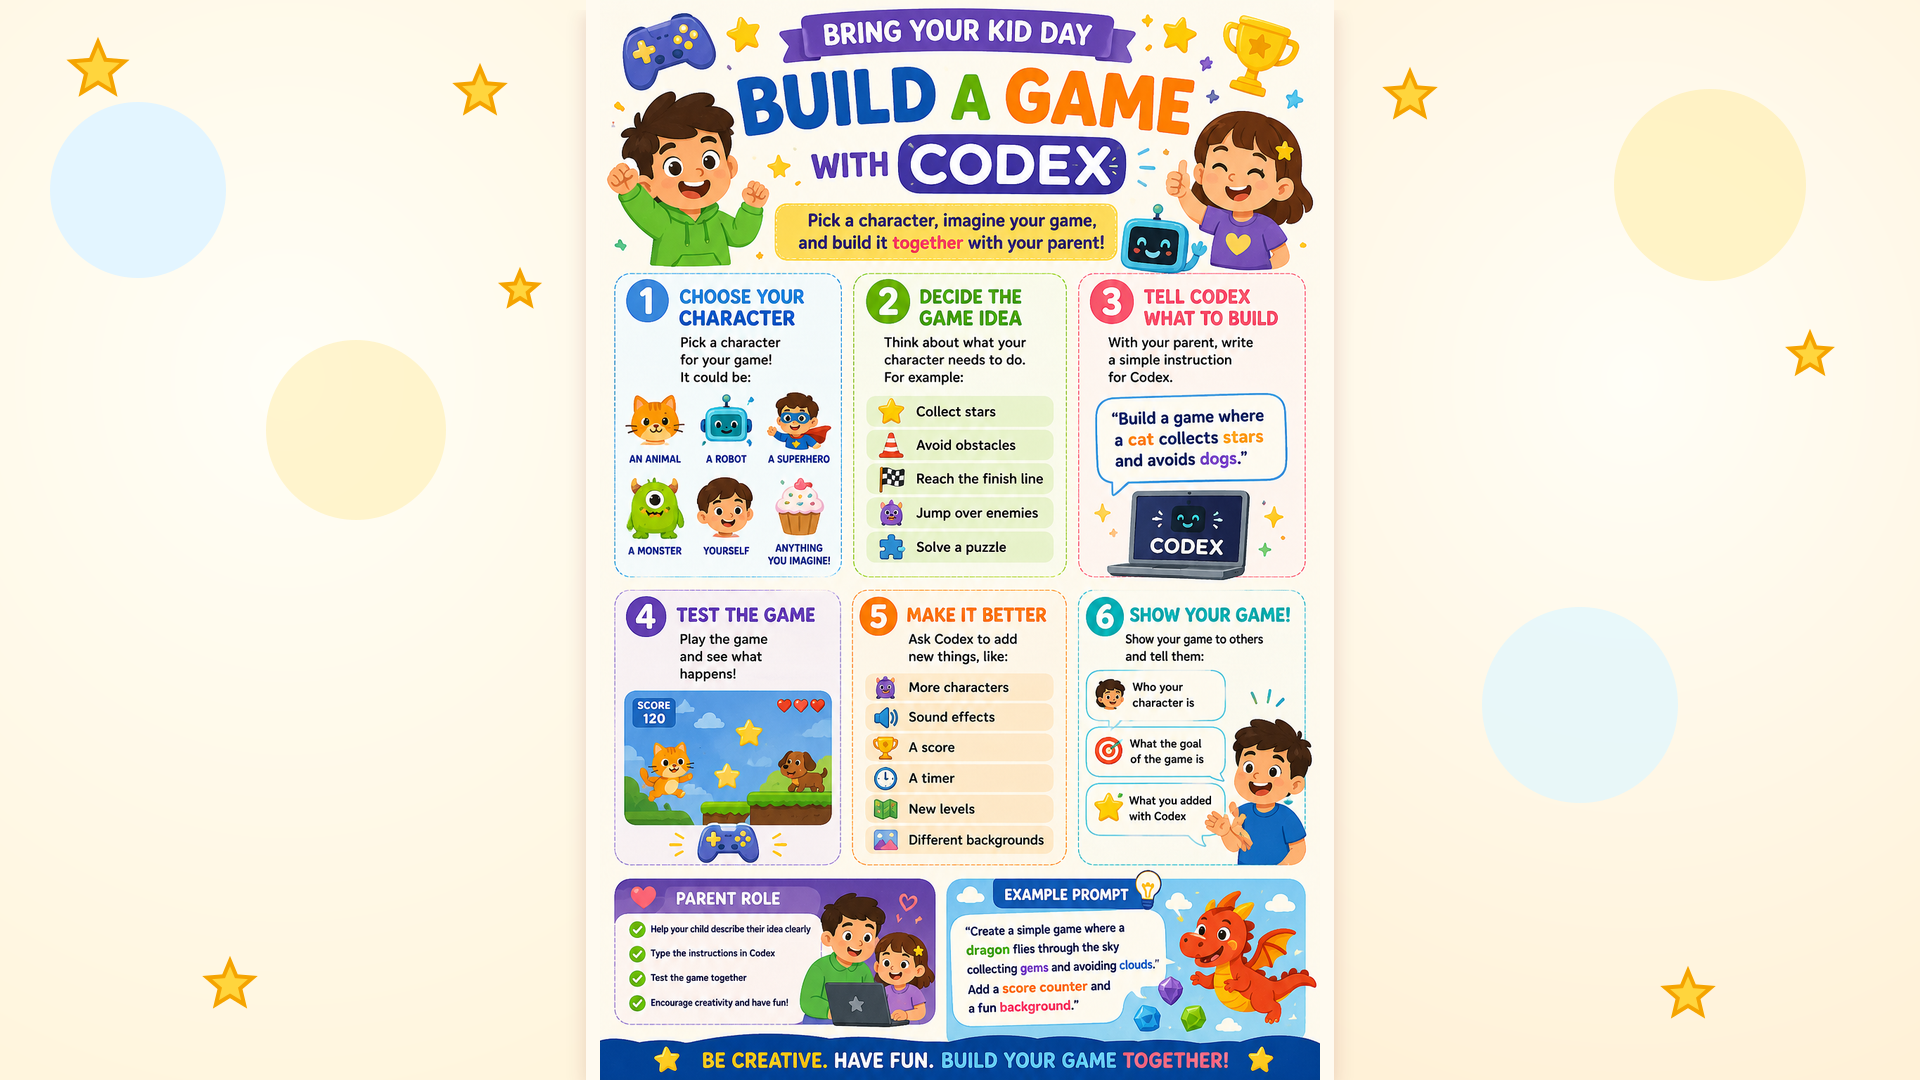
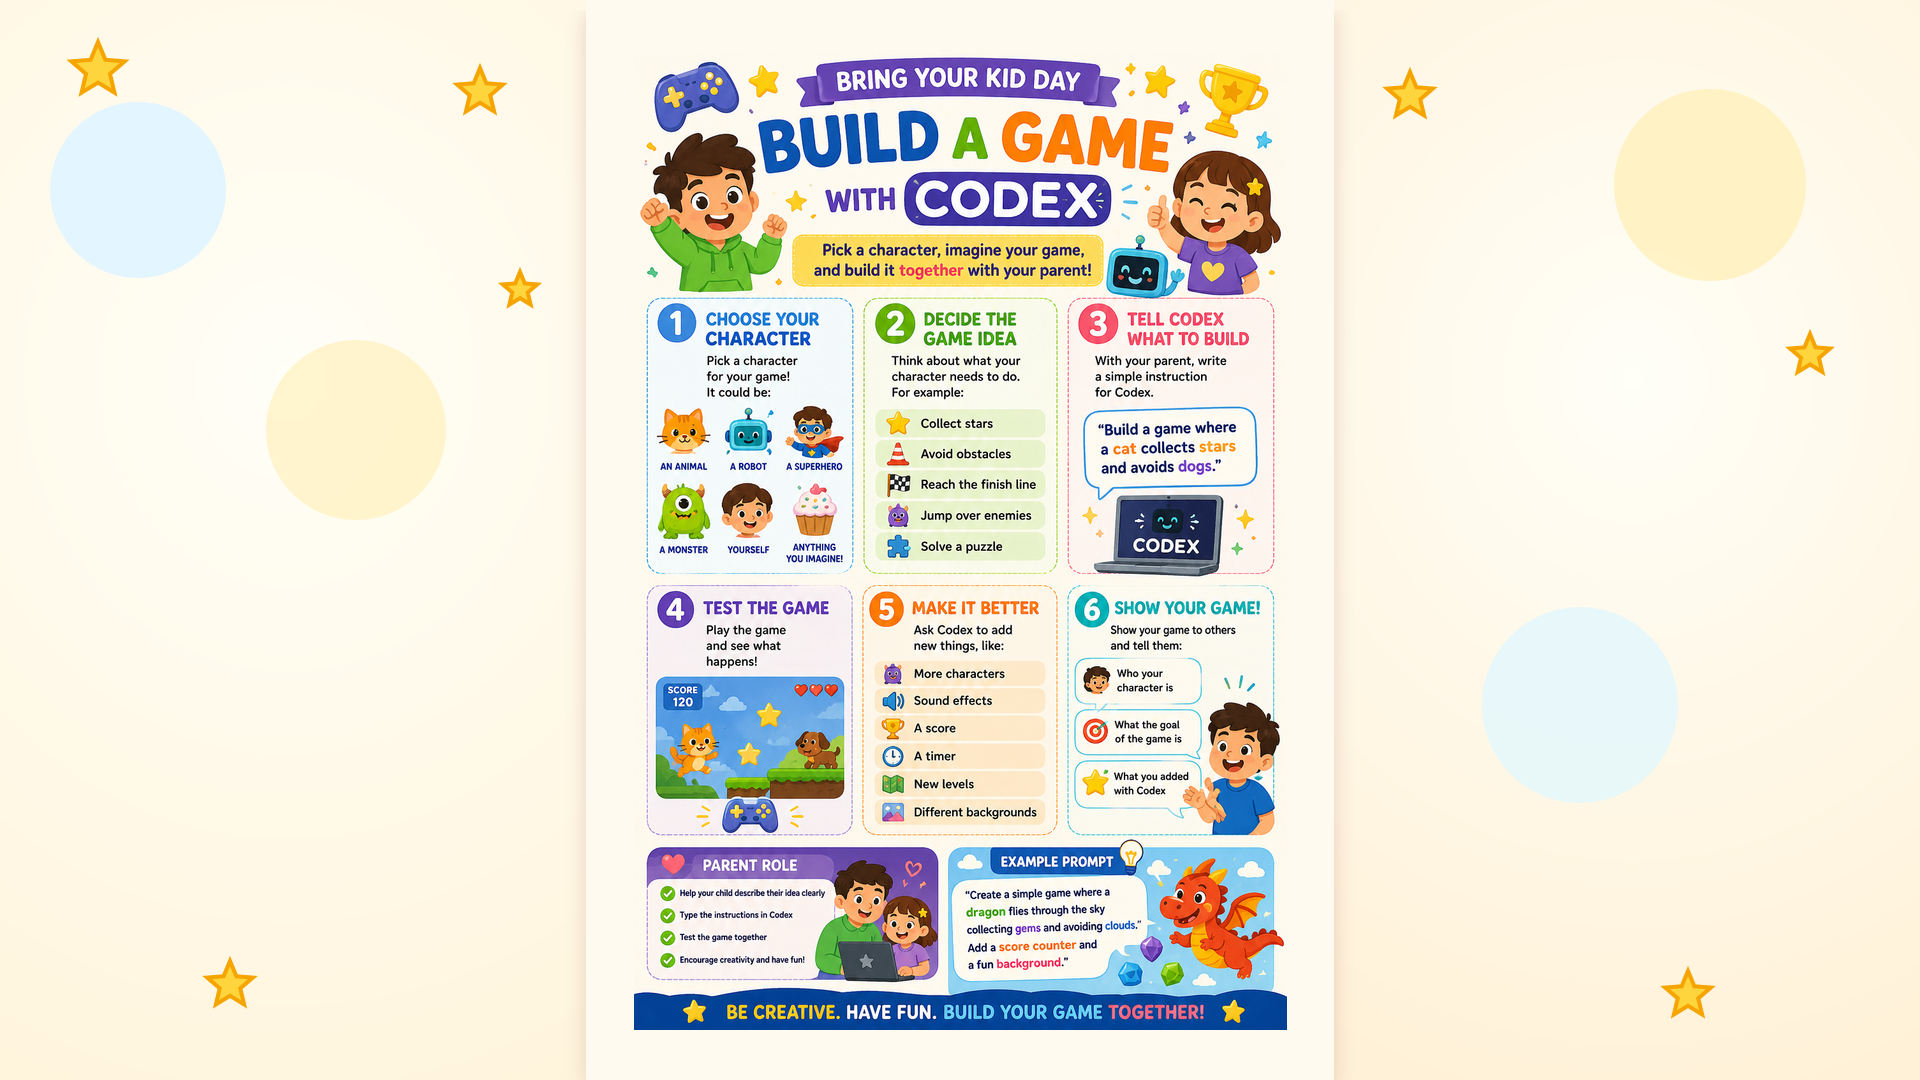
Add files via upload

Changed region(s): [[0.3125, 0.0, 0.6875, 1.0]]

diff --git a/index.html b/index.html
@@ -17,7 +17,7 @@
       width: 100%;
       height: 100%;
       margin: 0;
-      background: #000;
+      background: #fff6e4;
       overflow: hidden;
       overscroll-behavior: none;
     }
@@ -31,14 +31,14 @@
       inset: 0;
       width: 100dvw;
       height: 100dvh;
-      background: #000;
+      background: #fff6e4;
     }
 
     .poster-stage img {
       display: block;
       width: 100%;
       height: 100%;
-      object-fit: cover;
+      object-fit: contain;
       object-position: center;
       user-select: none;
       -webkit-user-drag: none;

diff --git a/README.md b/README.md
@@ -1,15 +1,9 @@
-# Vercel Codex Poster TV Version
+# Vercel Codex Poster
 
-This folder keeps the original poster intact and adds a TV-ready 16:9 PNG for projection.
+This is the clean GitHub/Vercel upload folder for the Bring Your Kid Day Codex poster.
 
-- `assets/original-poster.png`: copied from the supplied poster.
-- `assets/poster-16x9-faithful.png`: current 1920 x 1080 faithful widescreen version.
-- `index.html`: Vercel-ready static page that displays `poster-16x9-faithful.png` full screen.
+The Vercel page displays:
 
-To preview locally, run:
+- `assets/poster-16x9-faithful.png`
 
-```sh
-npm run dev
-```
-
-Then open `http://localhost:4173`.
+The poster is `1920 x 1080` and sized with safe margins for TV display.